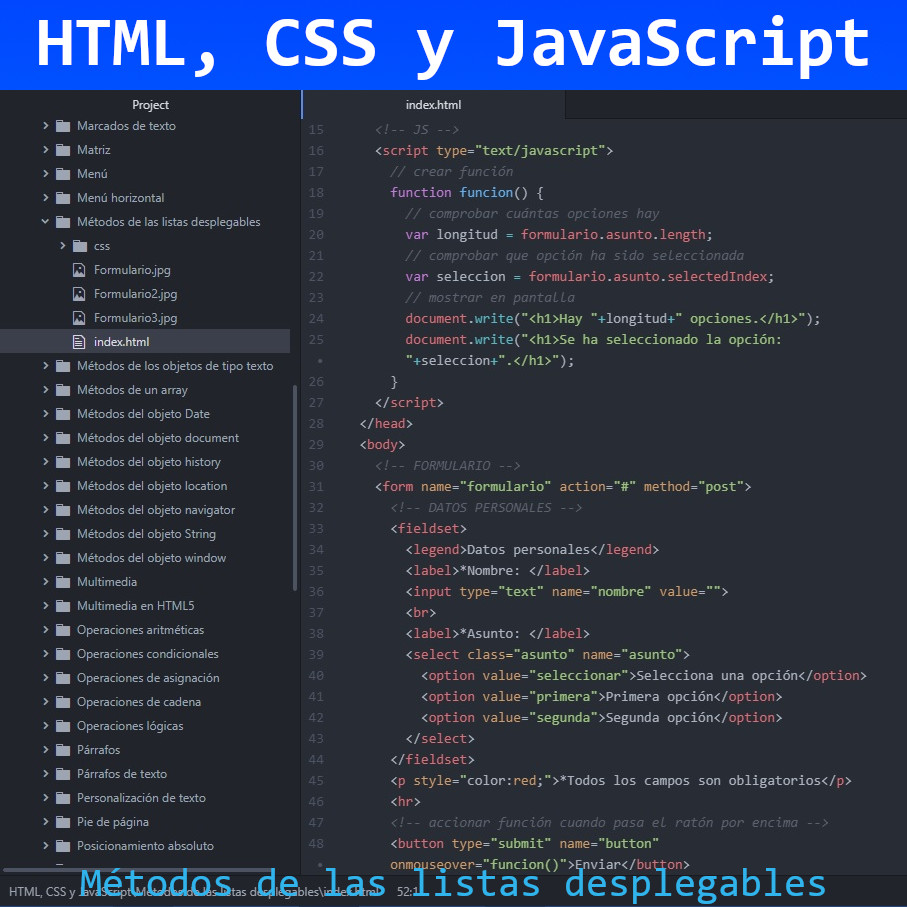
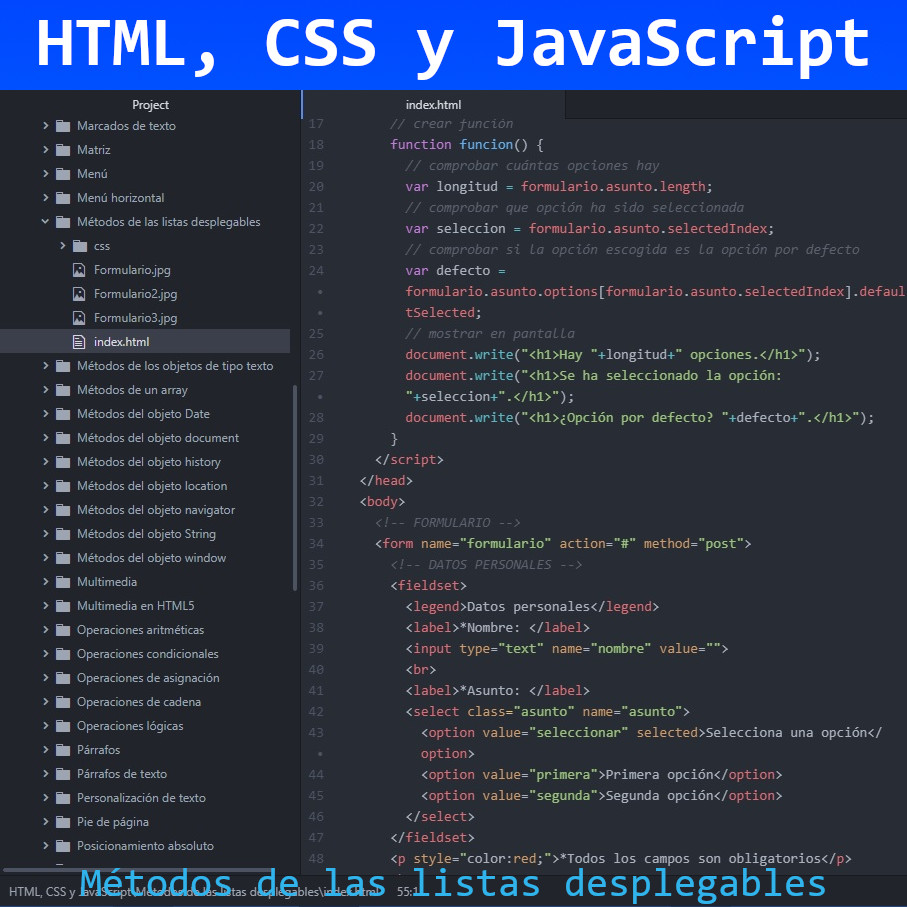
Métodos de las listas deslplegables
Métodos de las listas deslplegables en JavaScript

diff --git a/HTML, CSS y JavaScript/Métodos de las listas desplegables/index.html b/HTML, CSS y JavaScript/Métodos de las listas desplegables/index.html
@@ -20,9 +20,12 @@
         var longitud = formulario.asunto.length;
         // comprobar que opción ha sido seleccionada
         var seleccion = formulario.asunto.selectedIndex;
+        // comprobar si la opción escogida es la opción por defecto
+        var defecto = formulario.asunto.options[formulario.asunto.selectedIndex].defaultSelected;
         // mostrar en pantalla
         document.write("<h1>Hay "+longitud+" opciones.</h1>");
         document.write("<h1>Se ha seleccionado la opción: "+seleccion+".</h1>");
+        document.write("<h1>¿Opción por defecto? "+defecto+".</h1>");
       }
     </script>
   </head>
@@ -37,7 +40,7 @@
         <br>
         <label>*Asunto: </label>
         <select class="asunto" name="asunto">
-          <option value="seleccionar">Selecciona una opción</option>
+          <option value="seleccionar" selected>Selecciona una opción</option>
           <option value="primera">Primera opción</option>
           <option value="segunda">Segunda opción</option>
         </select>
